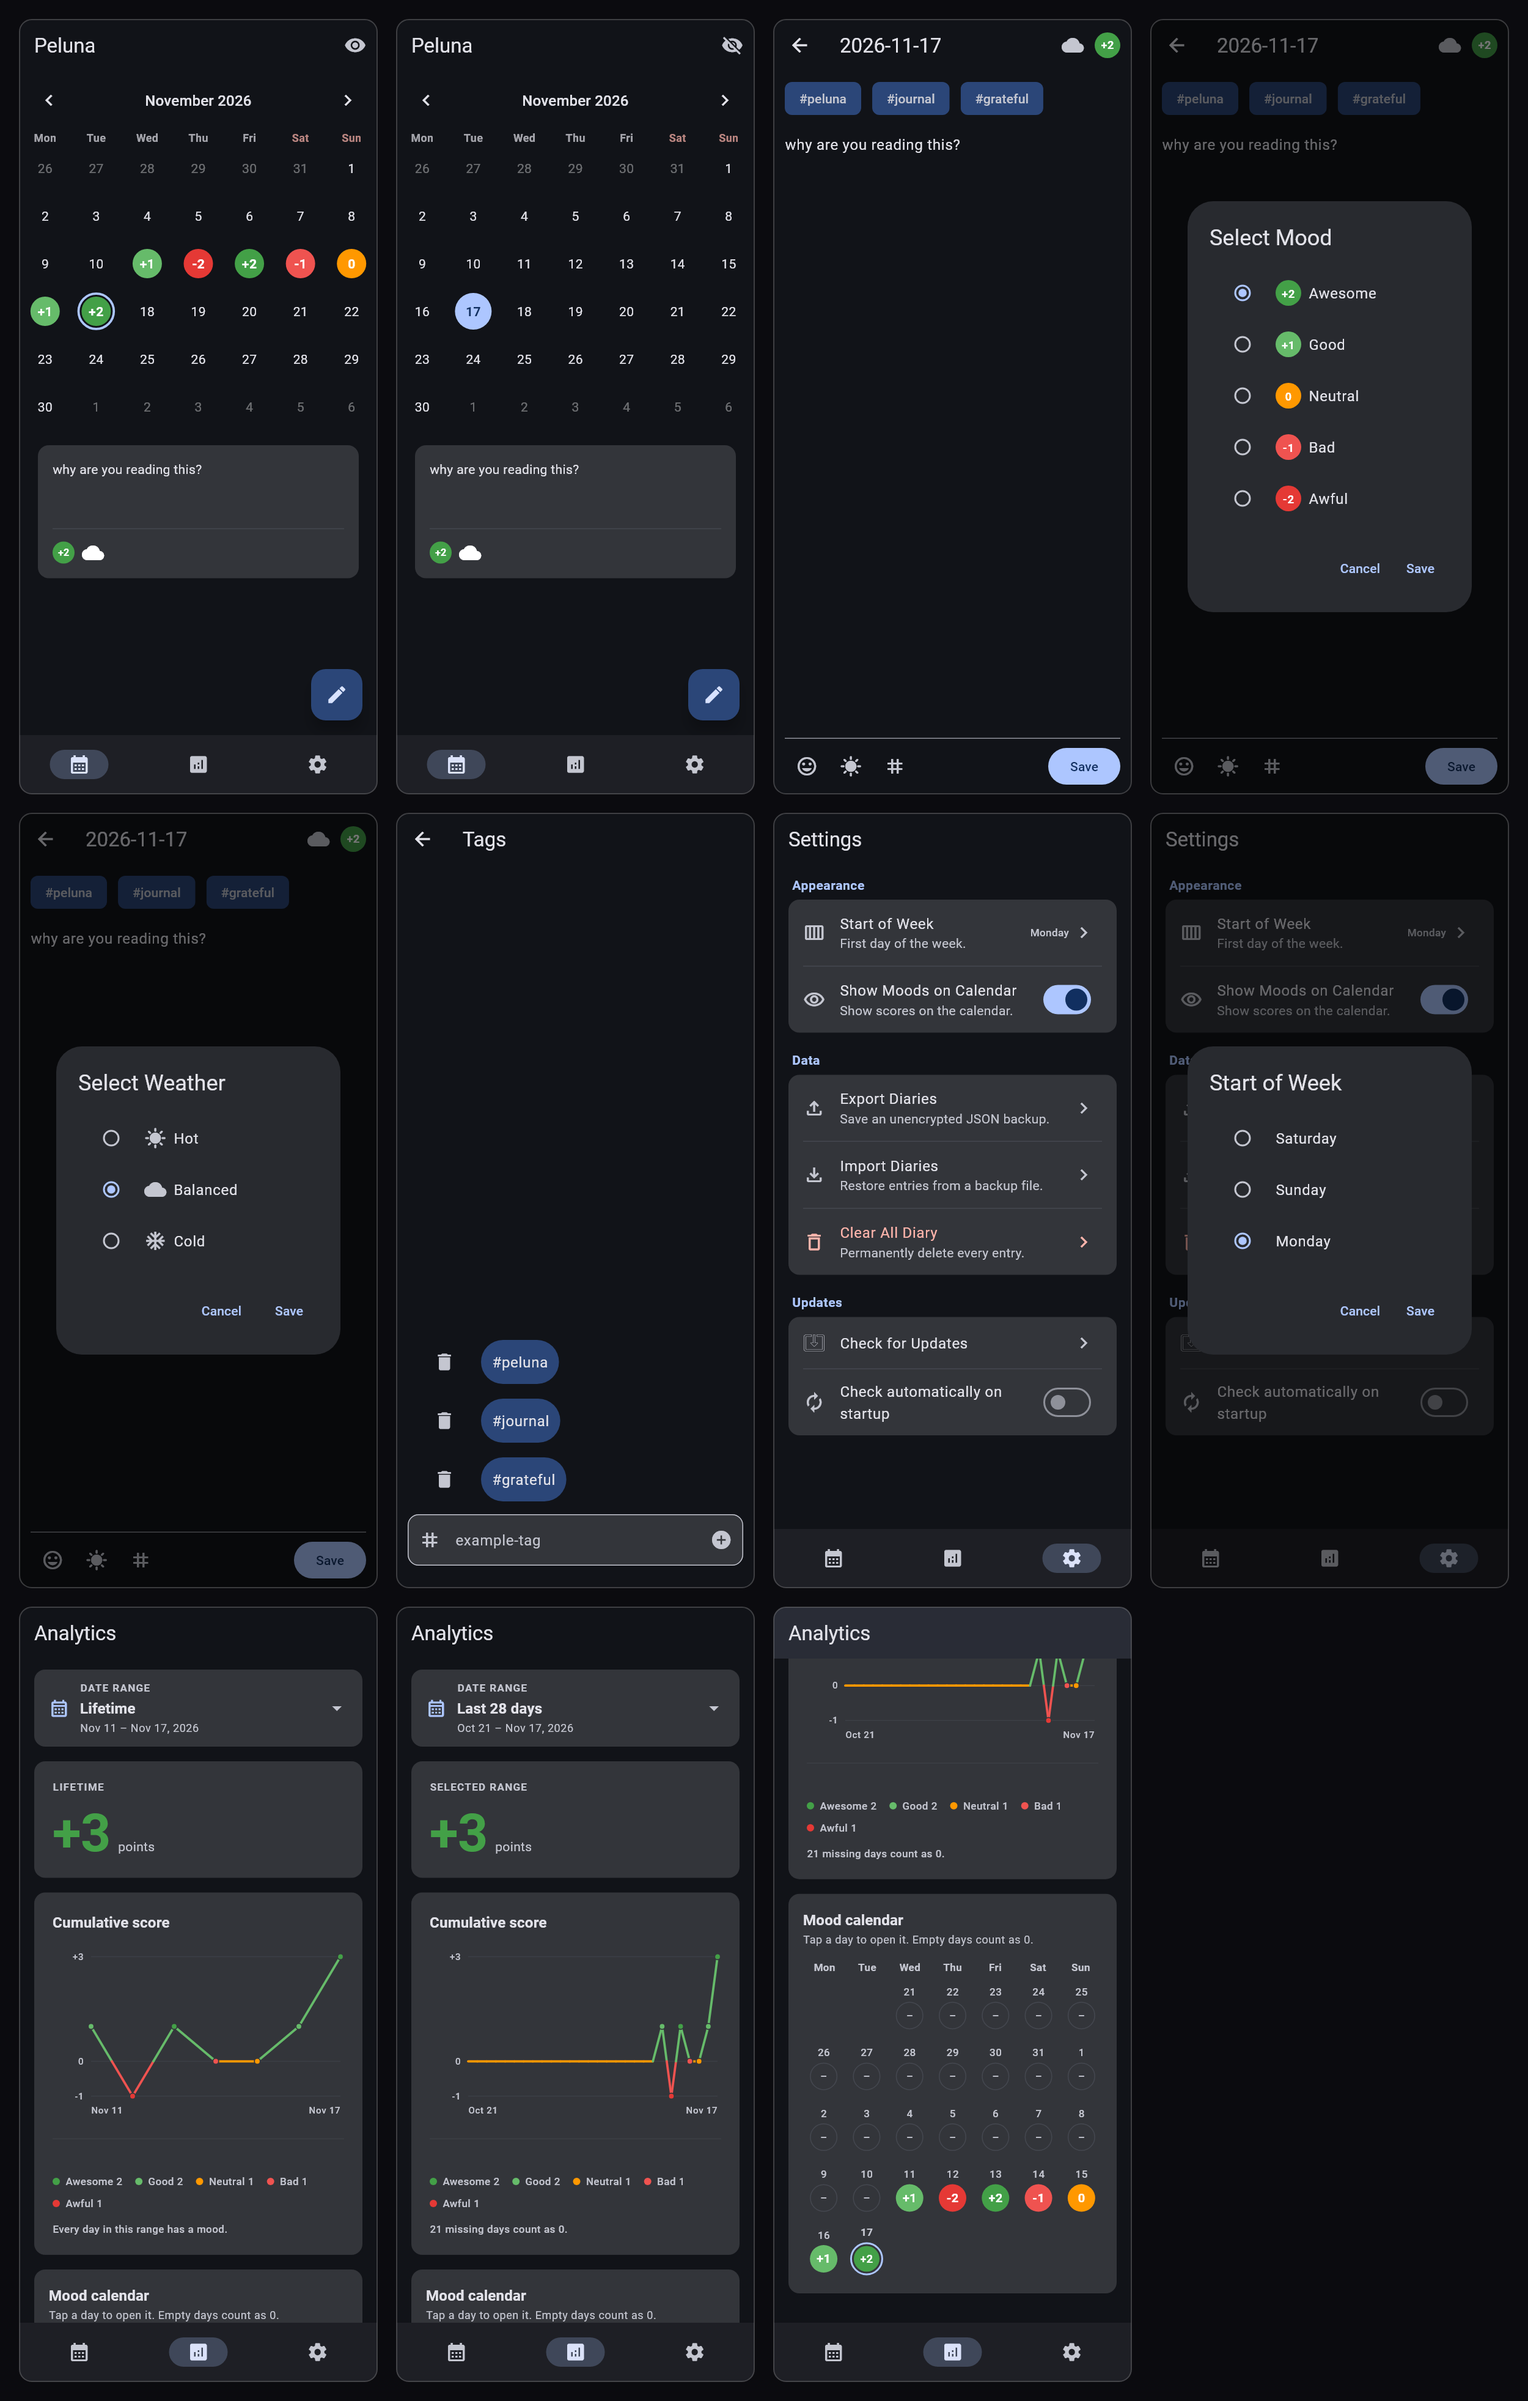
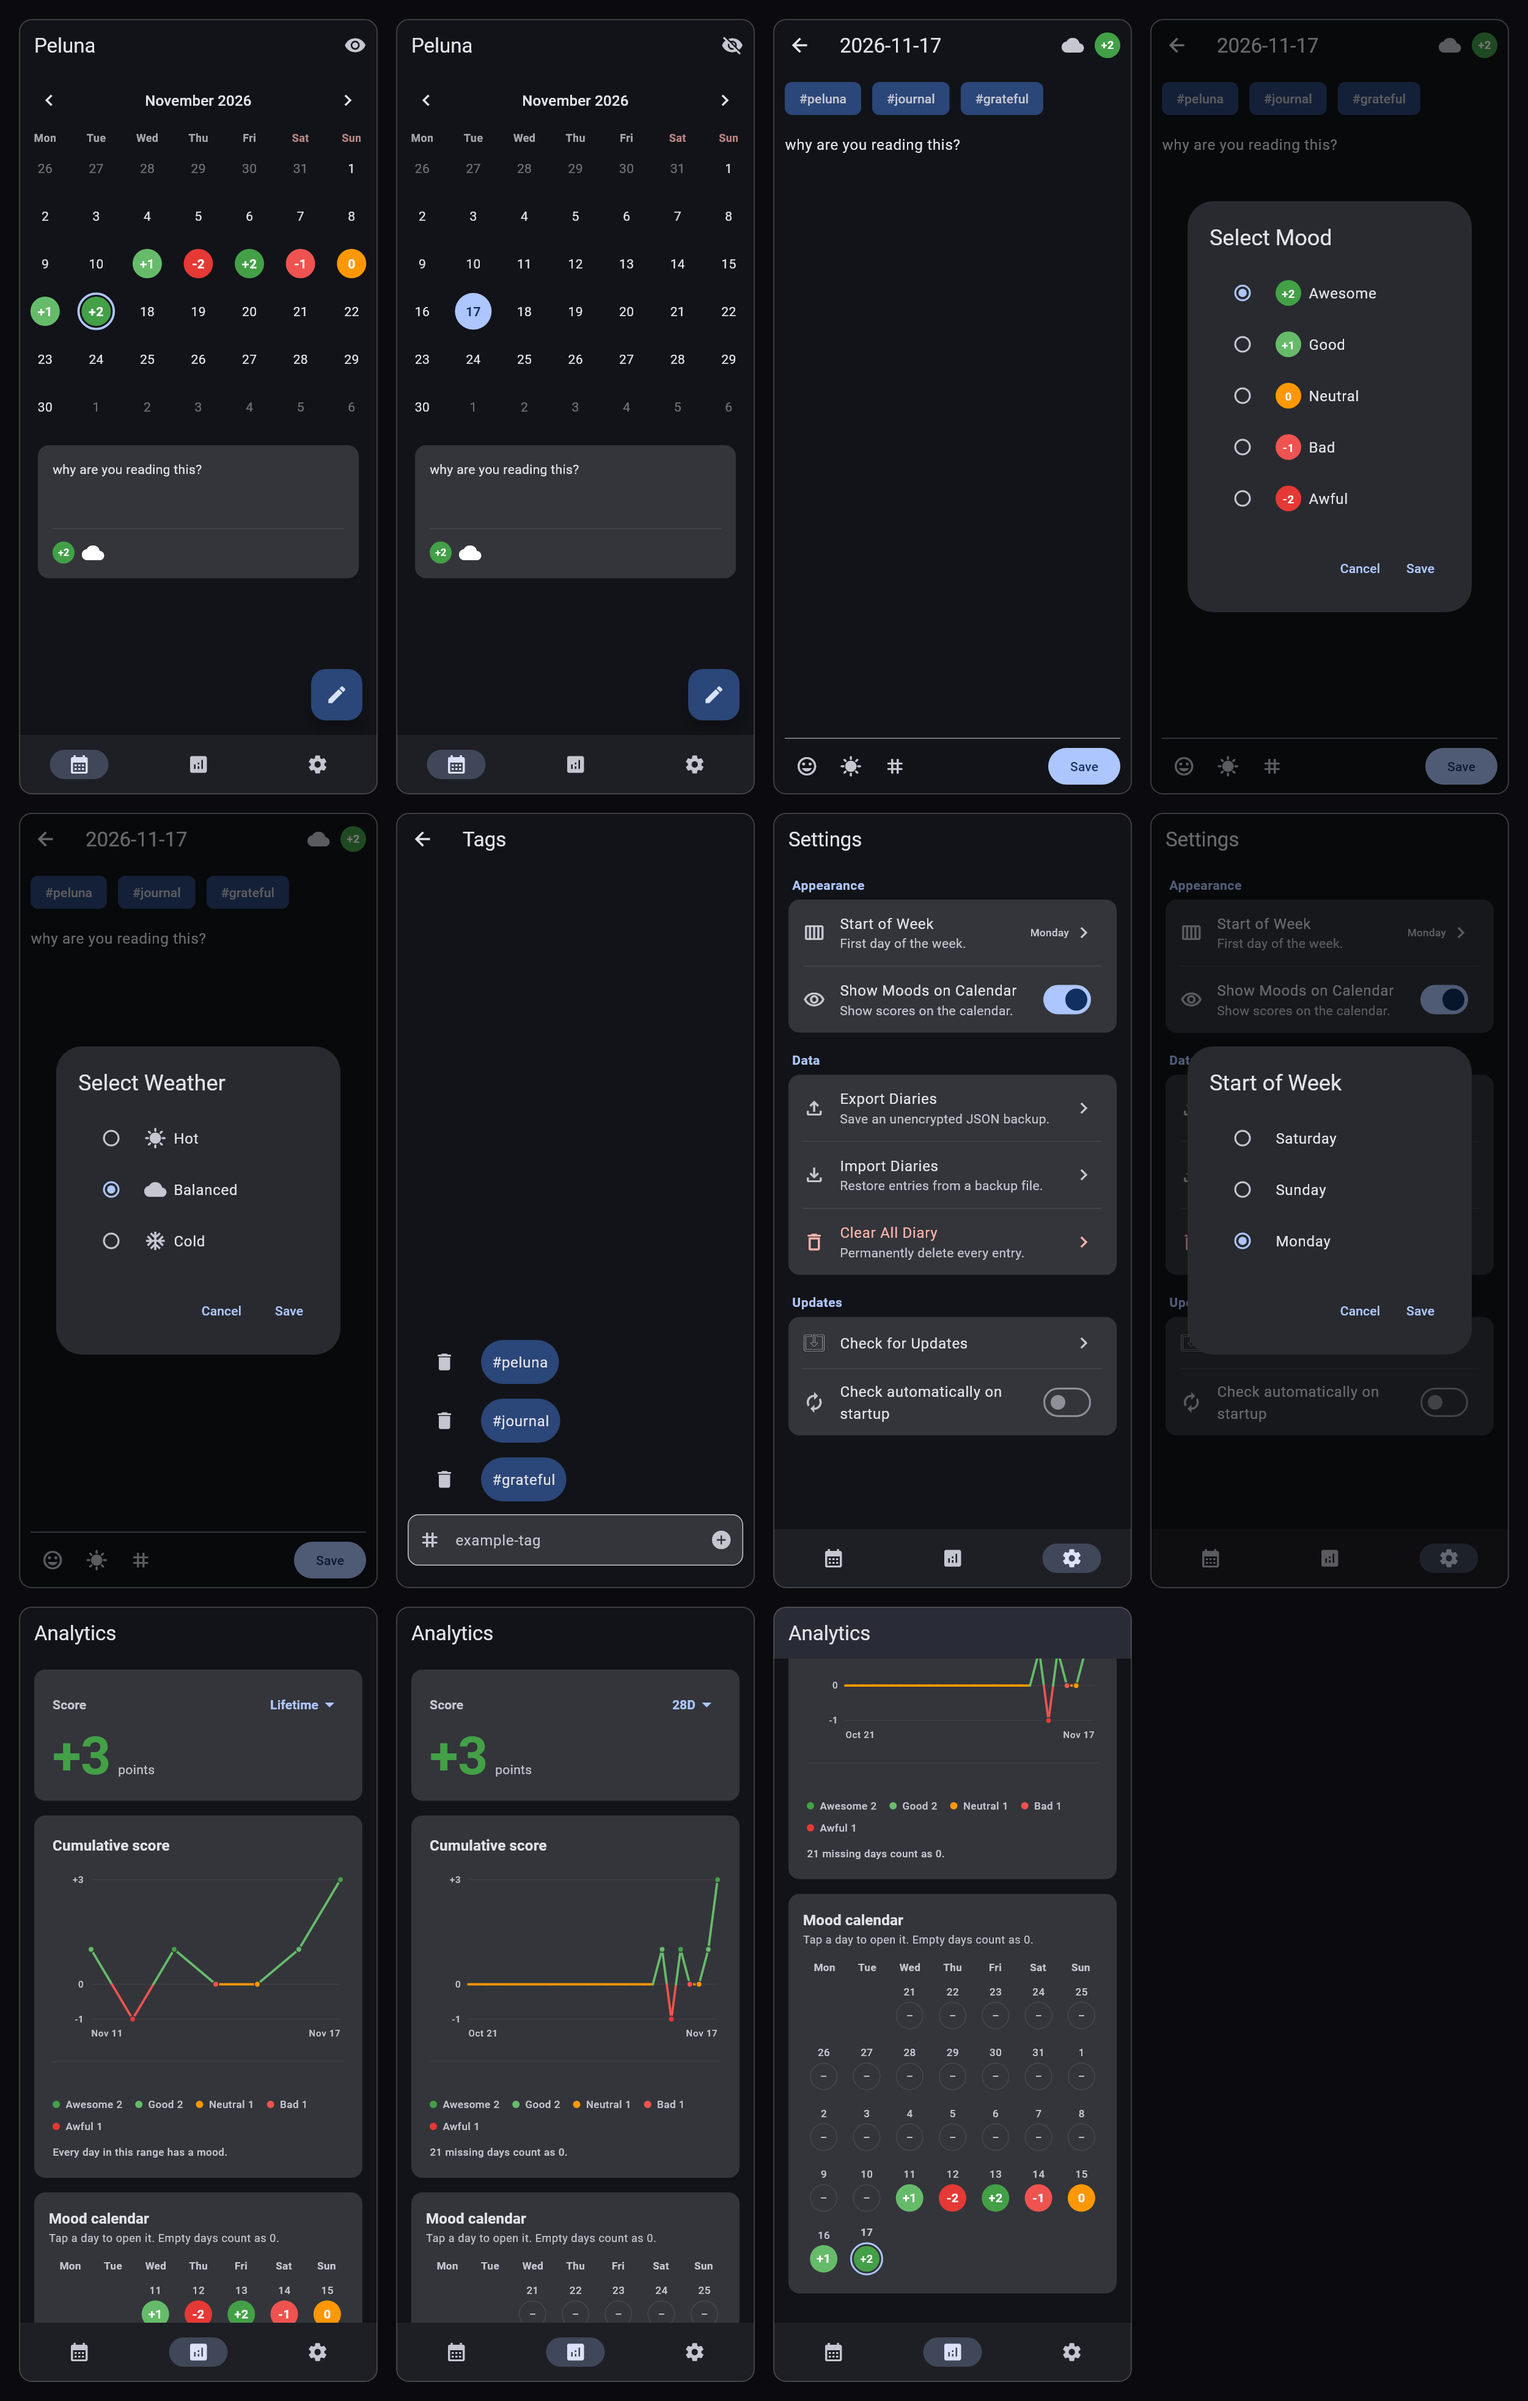
feat: fold analytics range picker into score card

diff --git a/lib/views/widgets/analytics/analytics_controls.dart b/lib/views/widgets/analytics/analytics_controls.dart
@@ -32,7 +32,6 @@ class AnalyticsRangeDropdown extends StatelessWidget {
     required this.anchor,
     required this.today,
     required this.firstEntry,
-    required this.period,
     required this.onSelected,
   });
 
@@ -40,67 +39,34 @@ class AnalyticsRangeDropdown extends StatelessWidget {
   final DateTime anchor;
   final DateTime today;
   final DateTime? firstEntry;
-  final AnalyticsPeriod? period;
   final ValueChanged<AnalyticsRangeSelection> onSelected;
 
   @override
   Widget build(BuildContext context) {
     final theme = Theme.of(context);
     final colorScheme = theme.colorScheme;
-    final period = this.period;
 
     return PopupMenuButton<AnalyticsRangeSelection>(
       tooltip: 'Select date range',
       position: PopupMenuPosition.under,
       offset: const Offset(0, 6),
-      constraints: const BoxConstraints(minWidth: 240, maxWidth: 300),
+      constraints: const BoxConstraints(minWidth: 220, maxWidth: 280),
       shape: RoundedRectangleBorder(borderRadius: BorderRadius.circular(16)),
       onSelected: onSelected,
       itemBuilder: (context) => _menuItems(),
       child: Padding(
-        padding: const EdgeInsets.symmetric(horizontal: 16, vertical: 12),
+        padding: const EdgeInsets.fromLTRB(8, 6, 4, 6),
         child: Row(
+          mainAxisSize: MainAxisSize.min,
           children: [
-            Icon(
-              Icons.calendar_month_outlined,
-              size: 22,
-              color: colorScheme.primary,
-            ),
-            const SizedBox(width: 12),
-            Expanded(
-              child: Column(
-                crossAxisAlignment: CrossAxisAlignment.start,
-                children: [
-                  Text(
-                    'DATE RANGE',
-                    style: theme.textTheme.labelSmall?.copyWith(
-                      color: colorScheme.onSurfaceVariant,
-                      fontWeight: FontWeight.w700,
-                      letterSpacing: 1.1,
-                    ),
-                  ),
-                  const SizedBox(height: 2),
-                  Text(
-                    period == null
-                        ? _labelFor(type, anchor)
-                        : analyticsPeriodLabel(period),
-                    style: theme.textTheme.titleMedium?.copyWith(
-                      fontWeight: FontWeight.w700,
-                    ),
-                  ),
-                  if (period != null) ...[
-                    const SizedBox(height: 2),
-                    Text(
-                      _dateRangeLabel(period),
-                      style: theme.textTheme.bodySmall?.copyWith(
-                        color: colorScheme.onSurfaceVariant,
-                      ),
-                    ),
-                  ],
-                ],
+            Text(
+              _compactLabel(type, anchor),
+              style: theme.textTheme.titleSmall?.copyWith(
+                color: colorScheme.primary,
+                fontWeight: FontWeight.w700,
               ),
             ),
-            Icon(Icons.arrow_drop_down, color: colorScheme.onSurfaceVariant),
+            Icon(Icons.arrow_drop_down, color: colorScheme.primary),
           ],
         ),
       ),
@@ -121,11 +87,11 @@ class AnalyticsRangeDropdown extends StatelessWidget {
 
     return [
       for (final (rangeType, label) in const [
-        (AnalyticsRangeType.last7Days, 'Last 7 days'),
-        (AnalyticsRangeType.last28Days, 'Last 28 days'),
-        (AnalyticsRangeType.last90Days, 'Last 90 days'),
-        (AnalyticsRangeType.last365Days, 'Last 365 days'),
         (AnalyticsRangeType.lifetime, 'Lifetime'),
+        (AnalyticsRangeType.last7Days, '7D'),
+        (AnalyticsRangeType.last28Days, '28D'),
+        (AnalyticsRangeType.last90Days, '90D'),
+        (AnalyticsRangeType.last365Days, '365D'),
       ])
         PopupMenuItem(
           value: AnalyticsRangeSelection(rangeType),
@@ -169,26 +135,20 @@ class AnalyticsRangeDropdown extends StatelessWidget {
     ];
   }
 
-  String _labelFor(AnalyticsRangeType type, DateTime anchor) {
+  String _compactLabel(AnalyticsRangeType type, DateTime anchor) {
     return switch (type) {
-      AnalyticsRangeType.last7Days => 'Last 7 days',
-      AnalyticsRangeType.last28Days => 'Last 28 days',
-      AnalyticsRangeType.last90Days => 'Last 90 days',
-      AnalyticsRangeType.last365Days => 'Last 365 days',
+      AnalyticsRangeType.last7Days => '7D',
+      AnalyticsRangeType.last28Days => '28D',
+      AnalyticsRangeType.last90Days => '90D',
+      AnalyticsRangeType.last365Days => '365D',
       AnalyticsRangeType.lifetime => 'Lifetime',
       AnalyticsRangeType.year => '${anchor.year}',
-      AnalyticsRangeType.month => '${monthLong(anchor)} ${anchor.year}',
+      AnalyticsRangeType.month =>
+        anchor.year == today.year
+            ? monthShort(anchor)
+            : '${monthShort(anchor)} ${anchor.year}',
       AnalyticsRangeType.custom => 'Custom',
     };
-  }
-
-  String _dateRangeLabel(AnalyticsPeriod period) {
-    final end = period.effectiveEnd;
-    if (period.start == end) return fullDate(period.start);
-    if (period.start.year != end.year) {
-      return '${fullDate(period.start)} – ${fullDate(end)}';
-    }
-    return '${shortDate(period.start)} – ${shortDate(end)}, ${end.year}';
   }
 }
 

diff --git a/lib/views/pages/analytics_page.dart b/lib/views/pages/analytics_page.dart
@@ -19,7 +19,6 @@ class AnalyticsPage extends ConsumerWidget {
   Widget build(BuildContext context, WidgetRef ref) {
     final request = ref.watch(analyticsRangeProvider);
     final analytics = ref.watch(periodAnalyticsProvider);
-    final period = analytics?.period;
     final today = ref.watch(analyticsTodayProvider);
     final data = ref.watch(analyticsDataProvider);
 
@@ -30,34 +29,31 @@ class AnalyticsPage extends ConsumerWidget {
         child: ListView(
           padding: const EdgeInsets.fromLTRB(16, 12, 16, 32),
           children: [
-            Card.filled(
-              margin: EdgeInsets.zero,
-              child: AnalyticsRangeDropdown(
-                type: request.type,
-                anchor: request.anchor,
-                today: today,
-                firstEntry: data.firstEntryDate,
-                period: period,
-                onSelected: (selection) {
-                  if (selection.type == AnalyticsRangeType.custom) {
-                    _pickCustomRange(context, ref);
-                    return;
-                  }
-                  ref
-                      .read(analyticsRangeProvider.notifier)
-                      .selectPeriod(
-                        selection.type,
-                        year: selection.year,
-                        month: selection.month,
-                      );
-                },
-              ),
-            ),
-            const SizedBox(height: 16),
             if (analytics == null)
               _EmptyAnalytics(onWrite: () => _openDay(context, ref, today))
             else
-              _AnalyticsView(analytics: analytics),
+              _AnalyticsView(
+                analytics: analytics,
+                rangeSelector: AnalyticsRangeDropdown(
+                  type: request.type,
+                  anchor: request.anchor,
+                  today: today,
+                  firstEntry: data.firstEntryDate,
+                  onSelected: (selection) {
+                    if (selection.type == AnalyticsRangeType.custom) {
+                      _pickCustomRange(context, ref);
+                      return;
+                    }
+                    ref
+                        .read(analyticsRangeProvider.notifier)
+                        .selectPeriod(
+                          selection.type,
+                          year: selection.year,
+                          month: selection.month,
+                        );
+                  },
+                ),
+              ),
           ],
         ),
       ),
@@ -66,9 +62,10 @@ class AnalyticsPage extends ConsumerWidget {
 }
 
 class _AnalyticsView extends ConsumerWidget {
-  const _AnalyticsView({required this.analytics});
+  const _AnalyticsView({required this.analytics, required this.rangeSelector});
 
   final PeriodAnalytics analytics;
+  final Widget rangeSelector;
 
   @override
   Widget build(BuildContext context, WidgetRef ref) {
@@ -76,12 +73,11 @@ class _AnalyticsView extends ConsumerWidget {
     final summary = analytics.summary;
     final today = ref.watch(analyticsTodayProvider);
     final weekStart = ref.watch(weekStartProvider);
-    final isLifetime = period.type == AnalyticsRangeType.lifetime;
 
     return Column(
       crossAxisAlignment: CrossAxisAlignment.stretch,
       children: [
-        AnalyticsSummaryCard(summary: summary, isLifetime: isLifetime),
+        AnalyticsSummaryCard(summary: summary, rangeSelector: rangeSelector),
         const SizedBox(height: 16),
         CumulativeScoreCard(
           points: analytics.points,

diff --git a/lib/views/widgets/analytics/analytics_summary_card.dart b/lib/views/widgets/analytics/analytics_summary_card.dart
@@ -7,11 +7,11 @@ class AnalyticsSummaryCard extends StatelessWidget {
   const AnalyticsSummaryCard({
     super.key,
     required this.summary,
-    required this.isLifetime,
+    required this.rangeSelector,
   });
 
   final MoodSummary summary;
-  final bool isLifetime;
+  final Widget rangeSelector;
 
   @override
   Widget build(BuildContext context) {
@@ -25,15 +25,21 @@ class AnalyticsSummaryCard extends StatelessWidget {
         child: Column(
           crossAxisAlignment: CrossAxisAlignment.start,
           children: [
-            Text(
-              isLifetime ? 'LIFETIME' : 'SELECTED RANGE',
-              style: theme.textTheme.labelSmall?.copyWith(
-                color: colorScheme.onSurfaceVariant,
-                fontWeight: FontWeight.w700,
-                letterSpacing: 1.1,
-              ),
+            Row(
+              children: [
+                Expanded(
+                  child: Text(
+                    'Score',
+                    style: theme.textTheme.titleSmall?.copyWith(
+                      color: colorScheme.onSurfaceVariant,
+                      fontWeight: FontWeight.w700,
+                    ),
+                  ),
+                ),
+                rangeSelector,
+              ],
             ),
-            const SizedBox(height: 14),
+            const SizedBox(height: 10),
             Row(
               crossAxisAlignment: CrossAxisAlignment.end,
               children: [

diff --git a/test/analytics_test.dart b/test/analytics_test.dart
@@ -268,7 +268,14 @@ void main() {
       await tester.pump();
 
       expect(find.text('Lifetime'), findsOneWidget);
-      expect(find.text('LIFETIME'), findsOneWidget);
+      expect(find.text('Score'), findsOneWidget);
+      expect(
+        find.descendant(
+          of: find.byType(AnalyticsSummaryCard),
+          matching: find.text('Lifetime'),
+        ),
+        findsOneWidget,
+      );
       expect(find.text('Cumulative score'), findsOneWidget);
       expect(find.textContaining('per day'), findsNothing);
       expect(find.byTooltip('Previous period'), findsNothing);
@@ -285,11 +292,10 @@ void main() {
 
       await tester.tap(find.text('Lifetime'));
       await tester.pumpAndSettle();
-      await tester.tap(find.text('Last 7 days'));
+      await tester.tap(find.text('7D'));
       await tester.pumpAndSettle();
 
-      expect(find.text('SELECTED RANGE'), findsOneWidget);
-      expect(find.text('Last 7 days'), findsOneWidget);
+      expect(find.text('7D'), findsOneWidget);
       expect(find.text('Mood calendar'), findsOneWidget);
       expect(
         find.descendant(

diff --git a/tool/generate_gallery.dart b/tool/generate_gallery.dart
@@ -152,7 +152,7 @@ void main() {
 
       await tester.tap(find.text('Lifetime'));
       await tester.pumpAndSettle();
-      await tester.tap(find.text('Last 28 days'));
+      await tester.tap(find.text('28D'));
       await tester.pumpAndSettle();
       await snap();
 
